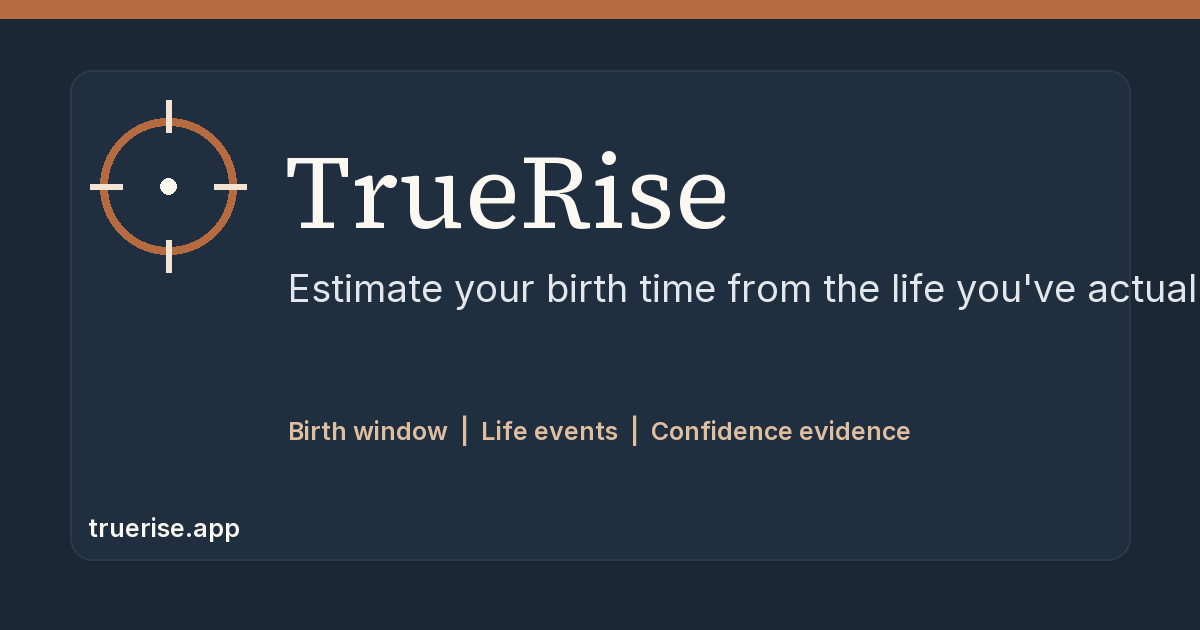
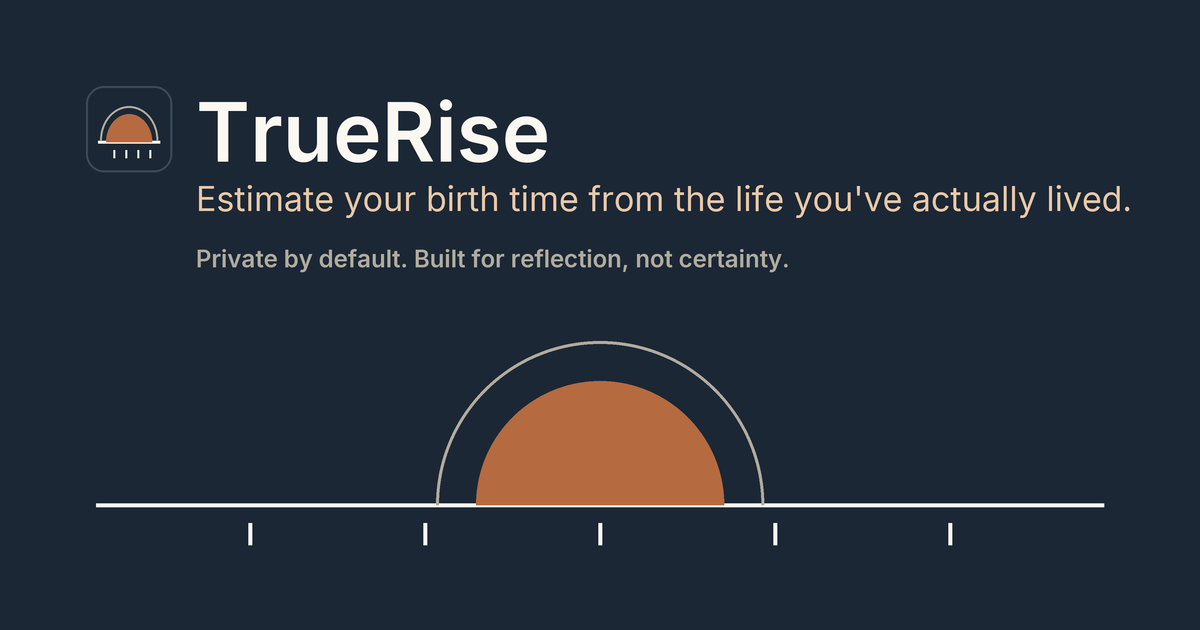
style: polish static landing brand

diff --git a/site/assets/styles.css b/site/assets/styles.css
@@ -698,7 +698,8 @@ li {
 
 @media (max-width: 560px) {
   .hero-inner {
-    padding: 2.1rem 0 2.25rem;
+    padding: 1.45rem 0 1rem;
+    min-height: 0;
   }
 
   .hero h1,
@@ -708,6 +709,7 @@ li {
   }
 
   .hero-lede {
+    margin-top: 0.85rem;
     font-size: 1rem;
     line-height: 1.55;
   }
@@ -719,7 +721,19 @@ li {
   }
 
   .hero-panel {
+    padding: 0.75rem;
+  }
+
+  .preview-list {
     display: none;
+  }
+
+  .result-preview > p:not(.result-time) {
+    display: none;
+  }
+
+  .result-time {
+    font-size: 2.6rem;
   }
 
   .nav {
@@ -740,7 +754,66 @@ li {
   }
 
   .hero-actions {
+    margin-top: 1.15rem;
+    gap: 0.55rem;
     width: 100%;
+  }
+}
+
+@media (max-width: 380px) {
+  .hero-inner {
+    padding: 1.1rem 0 0.9rem;
+    min-height: 0;
+  }
+
+  .hero h1,
+  .page-hero h1,
+  .not-found h1 {
+    font-size: 1.75rem;
+    line-height: 1.1;
+  }
+
+  .eyebrow {
+    margin-bottom: 0.55rem;
+  }
+
+  .hero-lede {
+    margin-top: 0.65rem;
+    font-size: 0.92rem;
+    line-height: 1.48;
+  }
+
+  .hero-actions {
+    margin-top: 0.85rem;
+    gap: 0.5rem;
+  }
+
+  .button {
+    padding: 0.55rem 0.85rem;
+    min-height: 40px;
+  }
+
+  .hero-panel {
+    padding: 0.55rem;
+  }
+
+  .result-preview {
+    padding: 0.75rem;
+  }
+
+  .result-preview h2 {
+    font-size: 0.88rem;
+  }
+
+  .result-time {
+    margin-top: 0.6rem;
+    font-size: 2.1rem;
+  }
+
+  .confidence-row {
+    margin-top: 0.6rem;
+    padding-top: 0.6rem;
+    font-size: 0.82rem;
   }
 }
 

diff --git a/site/index.html b/site/index.html
@@ -39,7 +39,7 @@
         <section class="hero" aria-labelledby="hero-title">
           <div class="hero-inner">
             <div class="hero-copy">
-              <p class="eyebrow">TrueRise</p>
+              <p class="eyebrow">Birth-time rectification</p>
               <h1 id="hero-title">Estimate your birth time from the life you've actually lived.</h1>
               <p class="hero-lede">Use an approximate birth window and meaningful life events to narrow the most likely time, then review the confidence band and evidence behind the estimate.</p>
               <div class="hero-actions" aria-label="Primary links">
@@ -139,7 +139,7 @@
 
       <footer class="site-footer">
         <div class="footer-inner">
-          <span>TrueRise</span>
+          <span>&copy; 2026 TrueRise</span>
           <div class="footer-links">
             <a href="support.html">Support</a>
             <a href="privacy.html">Privacy</a>

diff --git a/site/privacy.html b/site/privacy.html
@@ -145,7 +145,7 @@
 
       <footer class="site-footer">
         <div class="footer-inner">
-          <span>TrueRise</span>
+          <span>&copy; 2026 TrueRise</span>
           <div class="footer-links">
             <a href="index.html">Home</a>
             <a href="support.html">Support</a>

diff --git a/site/support.html b/site/support.html
@@ -93,7 +93,7 @@
 
       <footer class="site-footer">
         <div class="footer-inner">
-          <span>TrueRise</span>
+          <span>&copy; 2026 TrueRise</span>
           <div class="footer-links">
             <a href="index.html">Home</a>
             <a href="privacy.html">Privacy</a>

diff --git a/site/README.md b/site/README.md
@@ -45,7 +45,7 @@ site/
   assets/
     styles.css        <- single shared stylesheet
     fonts/            <- self-hosted Inter, Source Serif 4, JetBrains Mono
-    img/              <- brandmark, favicon, og-card
+    img/              <- brandmark.svg, favicon.svg (rising-sun motif), og-card.png (1200x630, navy bg)
   README.md           <- this file
 ```
 
